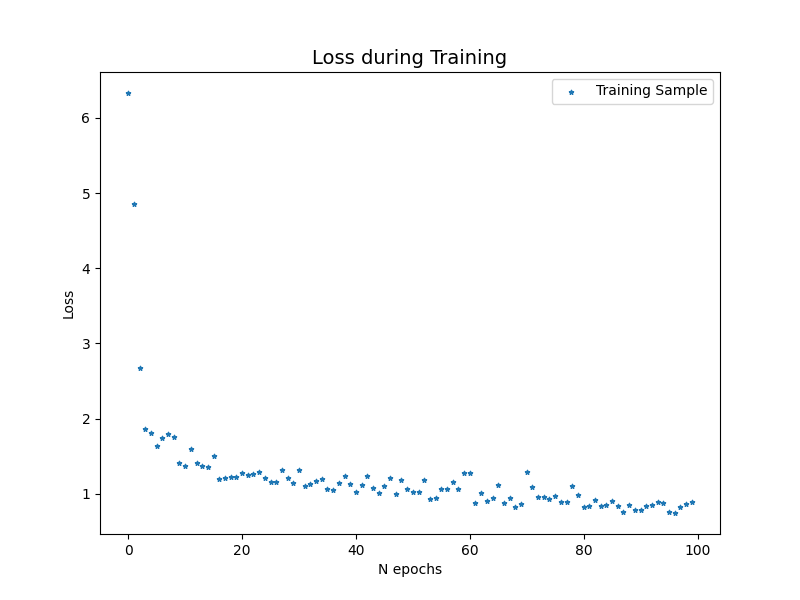
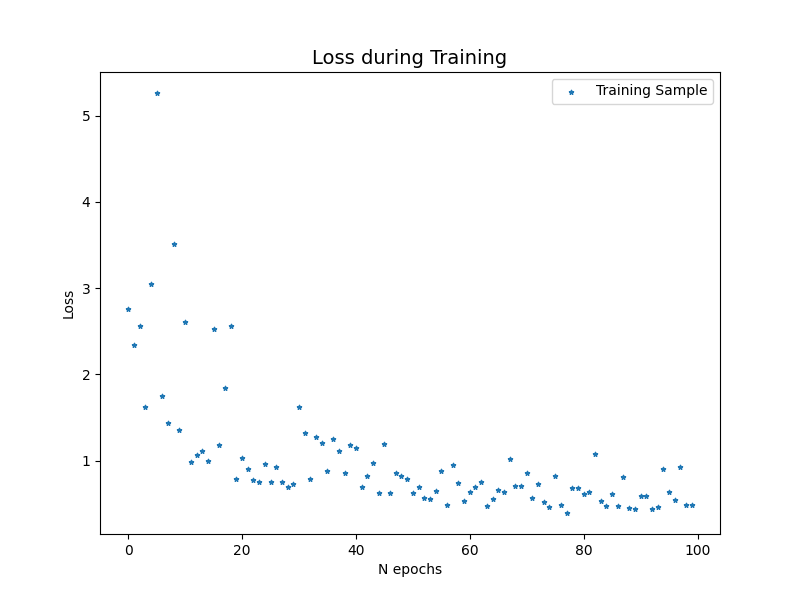
Training with sig1 insertion and percentage 0.005

diff --git a/autoencoder.py b/autoencoder.py
@@ -30,7 +30,7 @@ class AutoEncoder(nn.Module):
             nn.Linear(input_dim, mid_dim),
             nn.ReLU(),
             nn.Linear(mid_dim, latent_dim),
-            nn.ReLU()
+            # nn.ReLU()
         )
         
         # Building an linear decoder with Linear
@@ -88,7 +88,7 @@ def train(model, data_loader, loss_function, opt, epoch, alpha=0):
         prediction = model(features)
         error = torch.mean(loss(features, prediction), dim=1)
         disco = distance_corr(mass, error, torch.ones_like(mass))
-        train_loss = loss_function(prediction, features, torch.ones_like(weights)) + alpha * disco
+        train_loss = loss_function(prediction, features, weights) + alpha * disco
         opt.zero_grad()
         train_loss.backward()
         opt.step()

diff --git a/train.py b/train.py
@@ -57,7 +57,7 @@ model = AutoEncoder(input_dim = input_dim).to(device)
 N_epochs = 100
 batch_size = 2048
 learning_rate = 0.0002
-alpha = 100
+alpha = 50
 
 # dataloaders
 trainLoader = DataLoader(trainSet, batch_size=batch_size, shuffle=True, num_workers=4)
@@ -88,7 +88,7 @@ for epoch in range(N_epochs) :
     sigLoss.append(test(model, testLoader_sig, loss_function, epoch))
 
 # Save model
-torch.save(model.state_dict(), f"models/model_parameters_{signal}_{(int(pct * 1000) % 100):02d}_DISCO_NOWEIGHTS.pth")
+torch.save(model.state_dict(), f"models/model_parameters_{signal}_{(int(pct * 1000) % 100):02d}_50.pth")
 
 # Create Loss per Epochs
 fig, axes = plt.subplots(figsize=(8,6))
